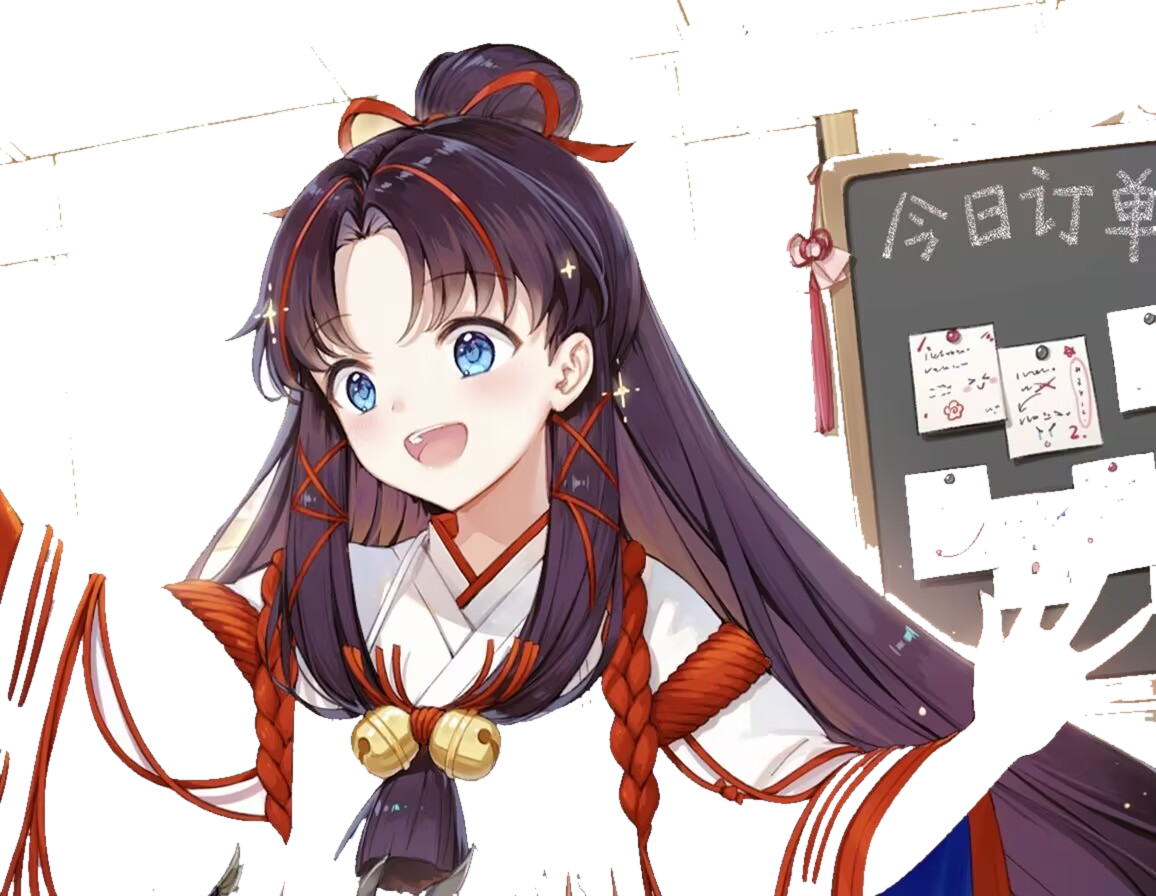
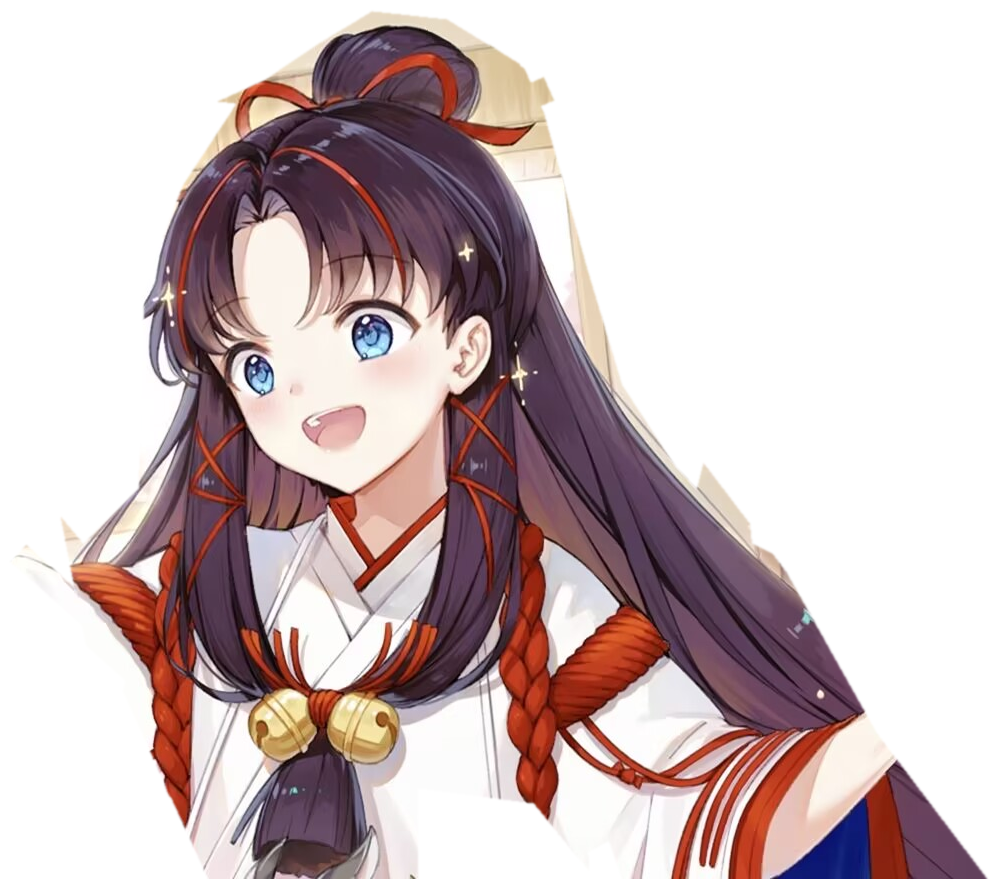
Refine mascot cutout and gaze motion

diff --git a/README.md b/README.md
@@ -48,7 +48,7 @@ draft: false
 - sitemap：由 Astro sitemap 集成生成，帮助搜索引擎发现页面。
 - robots.txt：公开爬虫规则并声明 sitemap 地址。
 - 评论占位：现在只留位置，不连接任何评论服务。
-- 二次元小角色：优先使用 `public/images/mascot-cutout.png` 透明抠图，支持鼠标视线跟随、点击问候、点击动作、拖动位置和隐藏；图片缺失时使用内置 SVG 兜底，移动端隐藏。
+- 二次元小角色：优先使用 `public/images/mascot-cutout.png` 透明抠图，支持鼠标视线跟随、抬头/低头/左右转头形成侧脸感、点击问候、点击动作、拖动位置和隐藏；图片缺失时使用内置 SVG 兜底，移动端隐藏。
 
 图片资源放在 `public/images/`：
 

diff --git a/requirements.md b/requirements.md
@@ -391,7 +391,7 @@ src/components/CursorCharacter.astro
 - 如果抠图资源不可用，则依次回退到 `public/images/mascot.png`、`public/images/mascot.jpg` 和内置 SVG
 - 小角色应比原 SVG 更好看，并保留轻量纯前端实现
 - 图片素材未准备好时，应有 SVG/CSS 兜底，不影响页面构建
-- 增加更多交互：鼠标视线跟随、点击问候、拖动位置、空闲眨眼或轻微浮动、点击动作反馈、隐藏/显示
+- 增加更多交互：鼠标视线跟随、根据鼠标位置抬头/低头/左右转头形成侧脸感、点击问候、拖动位置、空闲眨眼或轻微浮动、点击动作反馈、隐藏/显示
 - 移动端隐藏或简化，不遮挡正文
 - 尊重 `prefers-reduced-motion`
 
